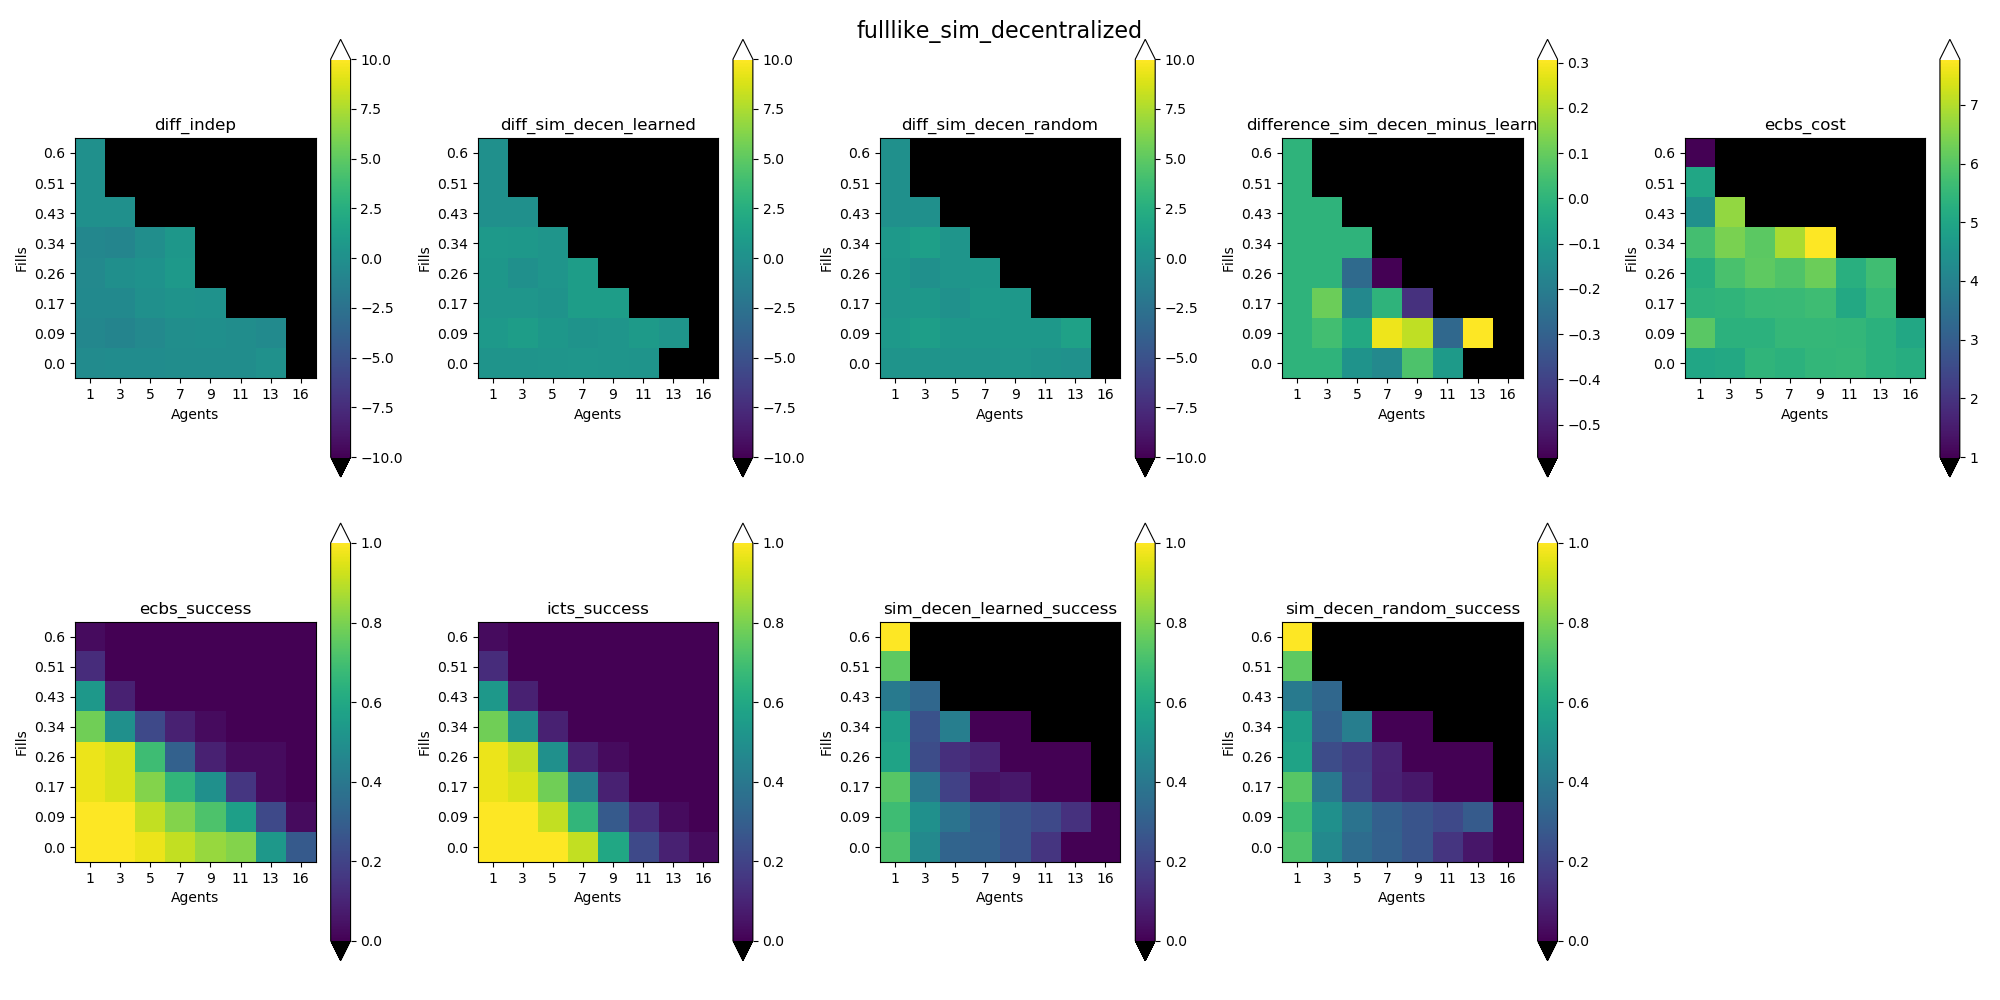
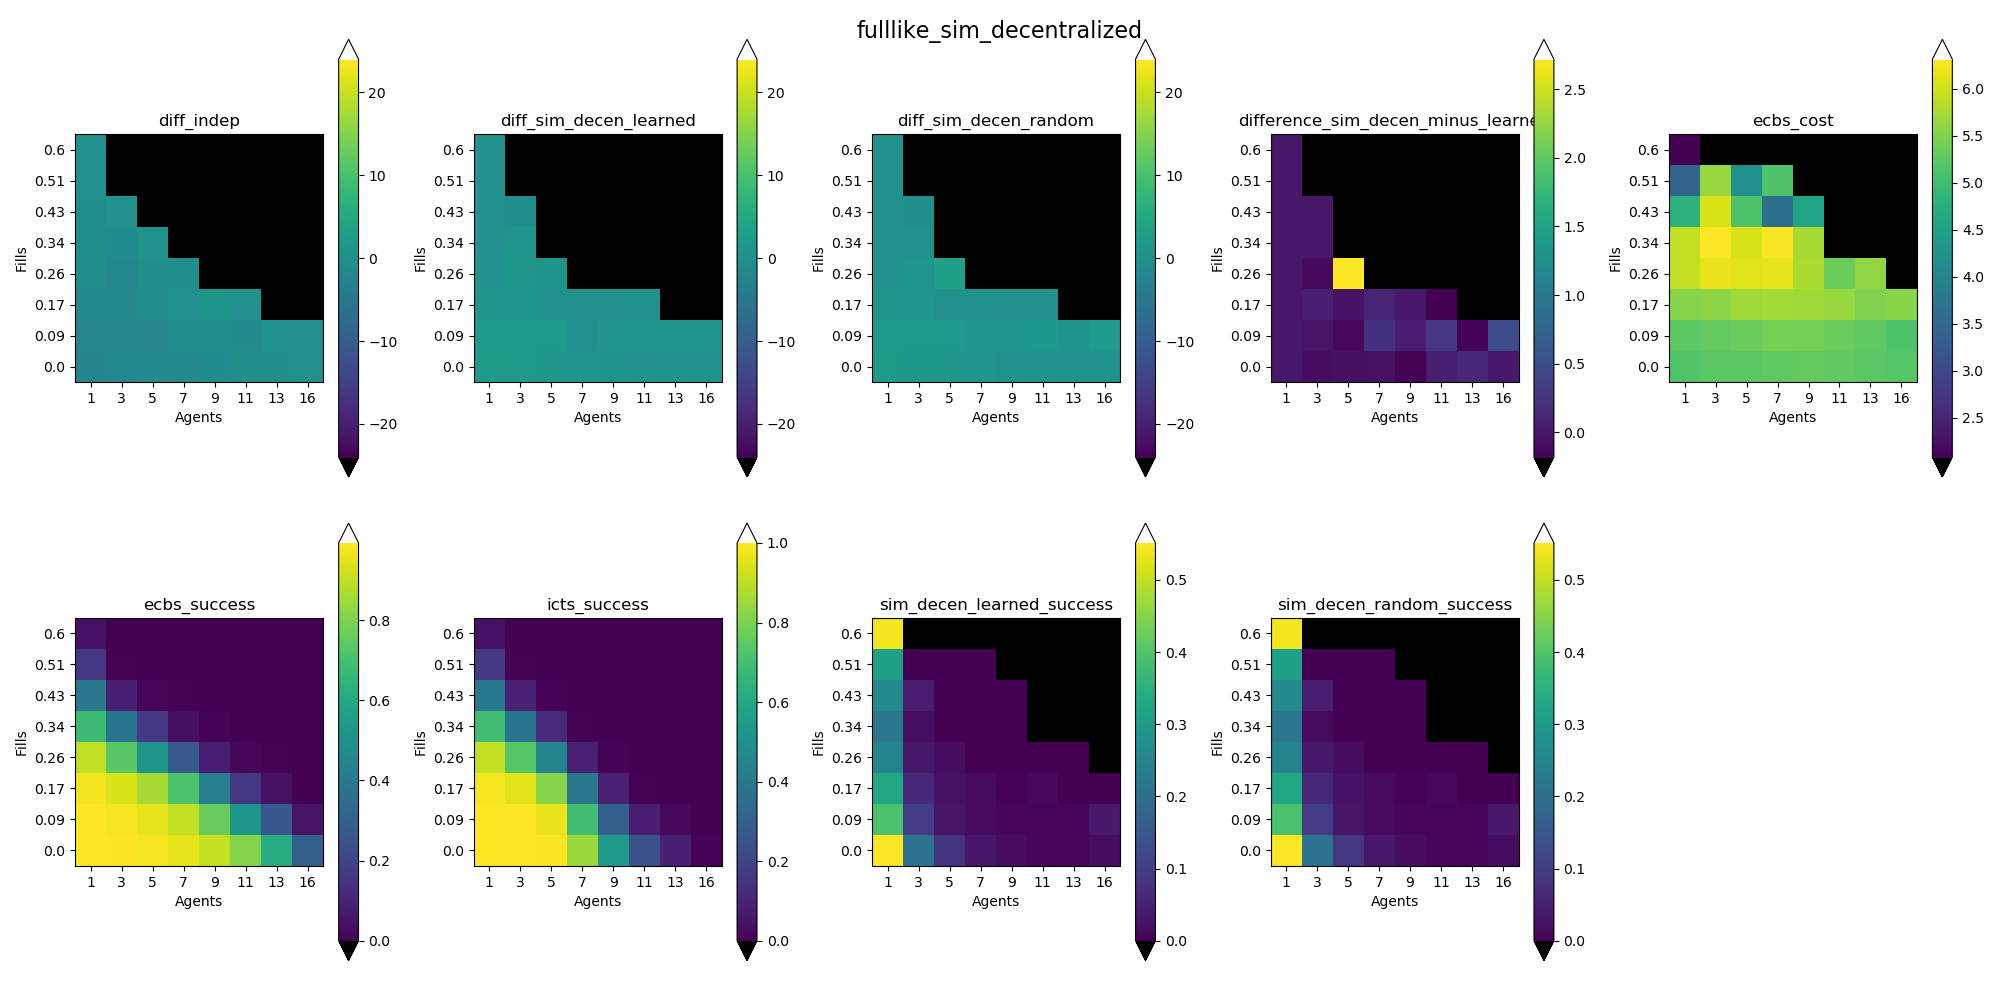
512 datapoints

diff --git a/scenarios/evaluators.py b/scenarios/evaluators.py
@@ -57,15 +57,18 @@ def cost_ecbs(env, starts, goals, timeout=DEFAULT_TIMEOUT_S, skip_cache=False):
                        skip_cache=skip_cache)
     if data == INVALID:
         return data
-    n_agents = starts.shape[0]
-    schedule = data[SCHEDULE]
-    cost_per_agent = []
-    for i_a in range(n_agents):
-        agent_key = 'agent'+str(i_a)
-        assert agent_key in schedule.keys(), "Path for this agent"
-        path = schedule[agent_key]
-        cost_per_agent.append(path[-1]['t'])
-    return float(sum(cost_per_agent)) / n_agents
+    try:
+        n_agents = starts.shape[0]
+        schedule = data[SCHEDULE]
+        cost_per_agent = []
+        for i_a in range(n_agents):
+            agent_key = 'agent'+str(i_a)
+            assert agent_key in schedule.keys(), "Path for this agent"
+            path = schedule[agent_key]
+            cost_per_agent.append(path[-1]['t'])
+        return float(sum(cost_per_agent)) / n_agents
+    except Exception as e:
+        return INVALID
 
 
 def expanded_nodes_ecbs(env, starts, goals, timeout=DEFAULT_TIMEOUT_S):

diff --git a/scenarios/main_eval.py b/scenarios/main_eval.py
@@ -64,7 +64,7 @@ def init_values_main():
     size = 8  # size for all scenarios
     n_fills = 8  # how many different fill values there should be
     n_n_agentss = 8  # how many different numbers of agents should there be"""
-    n_runs = 32  # how many runs per configuration
+    n_runs = 512  # how many runs per configuration
     max_fill = .6  # maximal fill to sample until
     low_agents = 1  # lowest number of agents
     high_agents = 16  # highest number of agents
